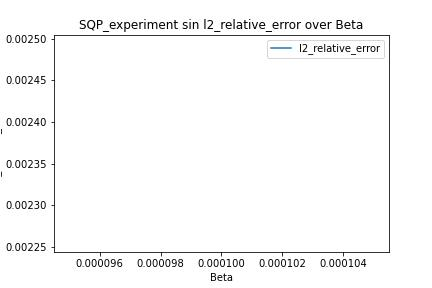
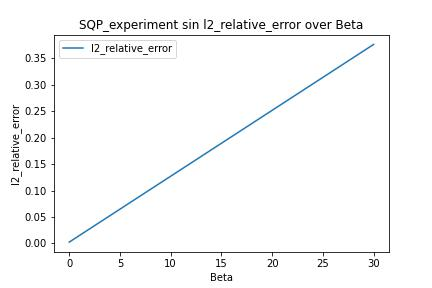
current

diff --git a/pde_cons_opt_code/main1.py b/pde_cons_opt_code/main1.py
@@ -37,8 +37,8 @@ from multiprocessing import Pool
 
 
 #######################################config for data#######################################
-# beta_list = [10**-4, 30]
-beta_list = [10**-4]
+beta_list = [10**-4, 30]
+# beta_list = [30]
 N=100
 M=100
 data_key_num = 1000
@@ -102,7 +102,7 @@ hessian_param = 0.6 # 0.6最好
 init_stepsize = 1.0
 line_search_tol = 0.001
 line_search_max_iter = 30
-line_search_condition = "armijo"  # armijo, goldstein, strong-wolfe or wolfe.
+line_search_condition = "strong-wolfe"  # armijo, goldstein, strong-wolfe or wolfe.
 line_search_decrease_factor = 0.8
 group_labels = list(range(1,2*M+1)) * 2
 ####################################### config for SQP #######################################
@@ -122,12 +122,12 @@ group_labels = list(range(1,2*M+1)) * 2
 #                     'New_Augmented_Lag_experiment',\  #问题
 #                     'Fletcher_Penalty_experiment', \  #问题
 #                     'SQP_experiment']:
-for experiment in ['PINN_experiment']:
+for experiment in ['SQP_experiment']:
 
-    # for activation_input in ['sin', \
-    #                         'tanh', \
-    #                         'cos']:
-    for activation_input in ['tanh']:
+    for activation_input in ['sin', \
+                            'tanh', \
+                            'cos']:
+    # for activation_input in ['tanh']:
 
         if activation_input == "sin":
             activation = jnp.sin
